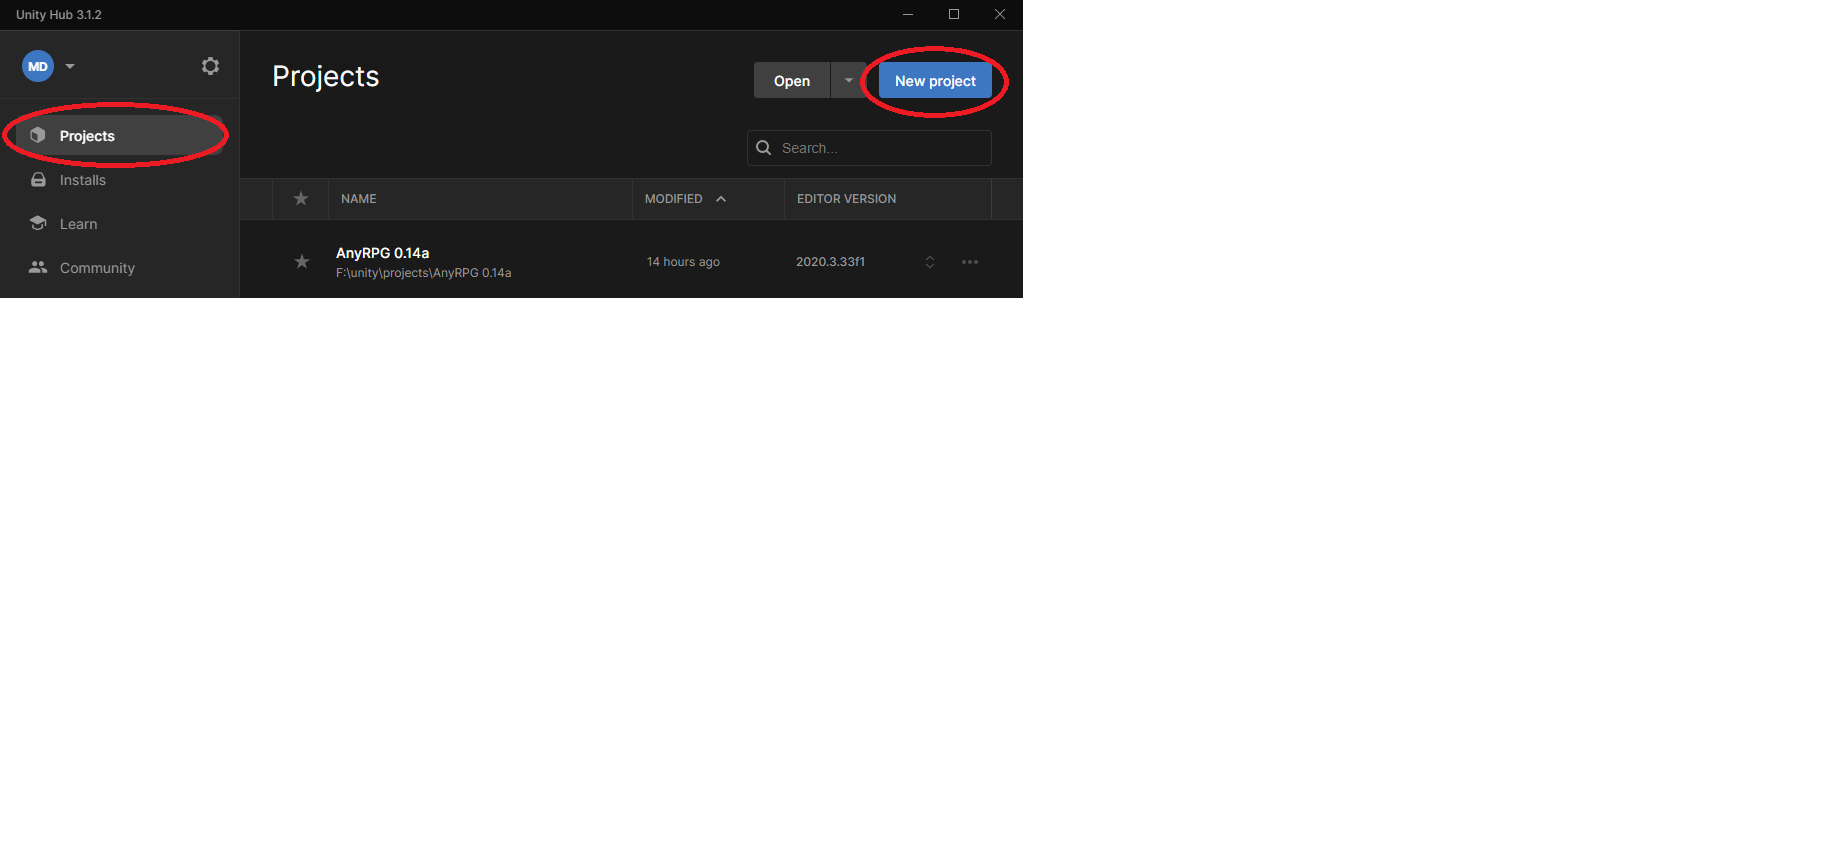
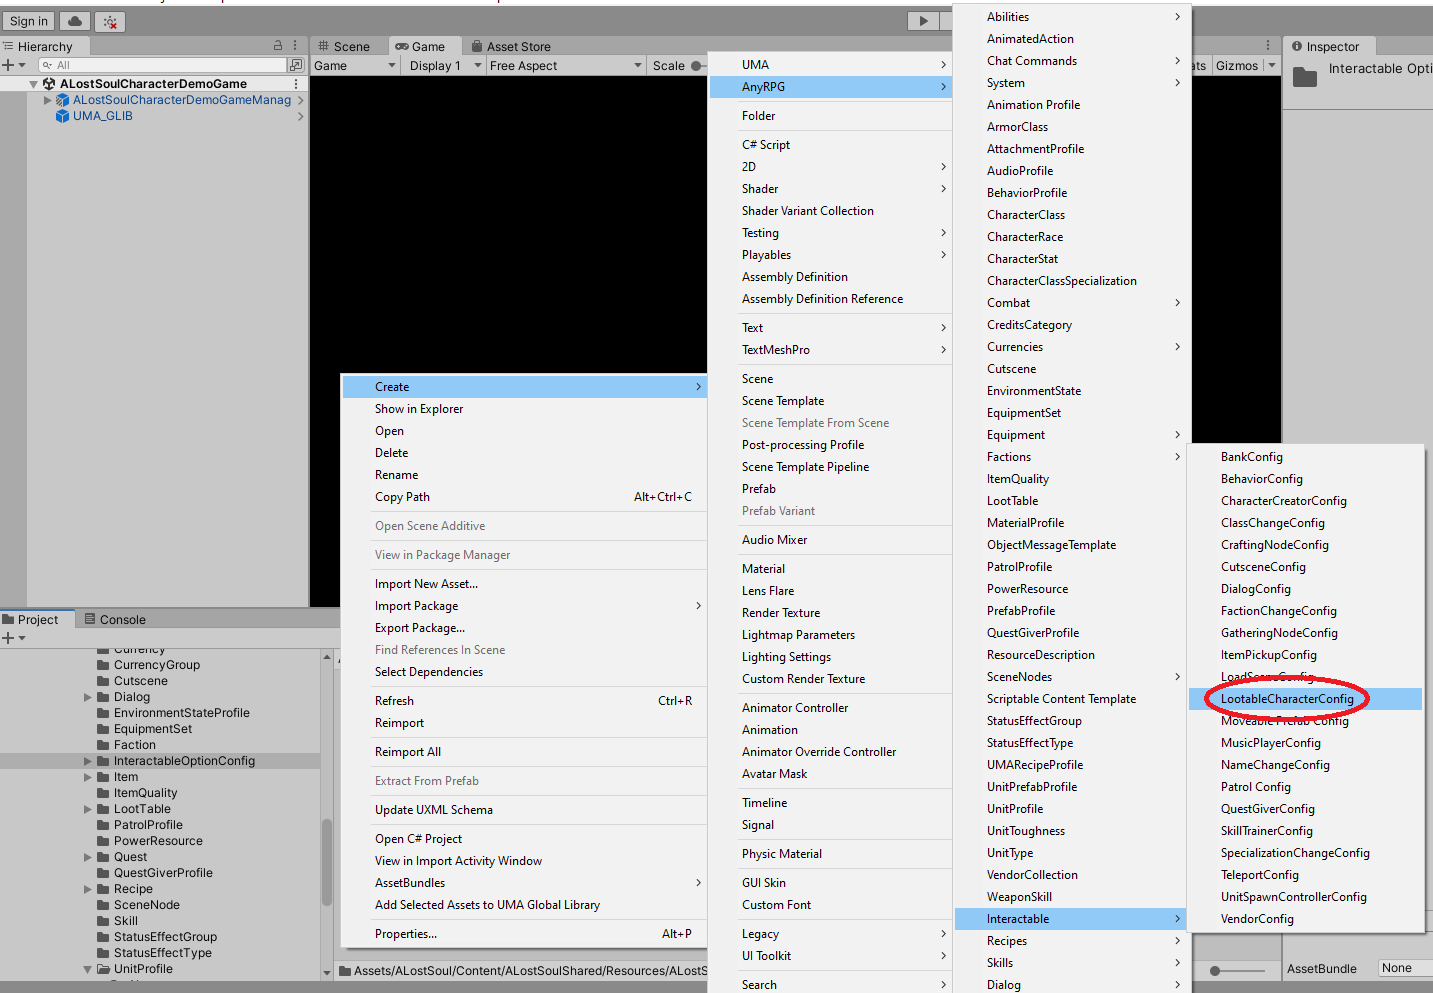
GitBook: [#79] add music player config documentation

diff --git a/scriptable-objects/interactable-option-configurations/music-player-config.md b/scriptable-objects/interactable-option-configurations/music-player-config.md
@@ -1,5 +1,24 @@
+---
+description: >-
+  A music player config creates a music player interactable option, allowing the
+  player to open a window with a list of audio clips and play them.
+---
+
 # Music Player Config
 
-{% hint style="info" %}
-Coming Soon
-{% endhint %}
+## Creation
+
+To create a music player config, find (or create) the _GameName/Resources/GameName/InteractableOptionConfig_ folder in the project tab and right click.  Choose _Create > AnyRPG > Interactable > MusicPlayerConfig_.
+
+![](<../../.gitbook/assets/image (7).png>)
+
+## Properties
+
+| Name                | Description                                                                                                                                                                                                                                                                                                                                                                       |
+| ------------------- | --------------------------------------------------------------------------------------------------------------------------------------------------------------------------------------------------------------------------------------------------------------------------------------------------------------------------------------------------------------------------------- |
+| Audio Type          | <p>The type of sound to play.  This affects which audio source will be used.<br><strong>Music</strong><br>The sound will be played through the background music audio source.<br><strong>Ambient</strong><br>The sound will be played through the ambient sounds audio source.<br><strong>Effect</strong><br>The sound will be played through the sound effects audio source.</p> |
+| Audio Profile Names | A list of the names of [Audio Profiles](../audio-profile.md) that contain lists of audio clips that can be played.                                                                                                                                                                                                                                                                |
+
+## Next Steps
+
+* Add a music player config to an Interactable to allow opening the music player window.

diff --git a/scriptable-objects/interactable-option-configurations/lootable-character-config.md b/scriptable-objects/interactable-option-configurations/lootable-character-config.md
@@ -10,7 +10,7 @@ description: >-
 
 To create a lootable character config, find (or create) the _GameName/Resources/GameName/InteractableOptionConfig_ folder in the project tab and right click.  Choose _Create > AnyRPG > Interactable > LootableCharacterConfig_.
 
-![](<../../.gitbook/assets/image (7).png>)
+![](<../../.gitbook/assets/image (7) (1).png>)
 
 ## Properties
 
